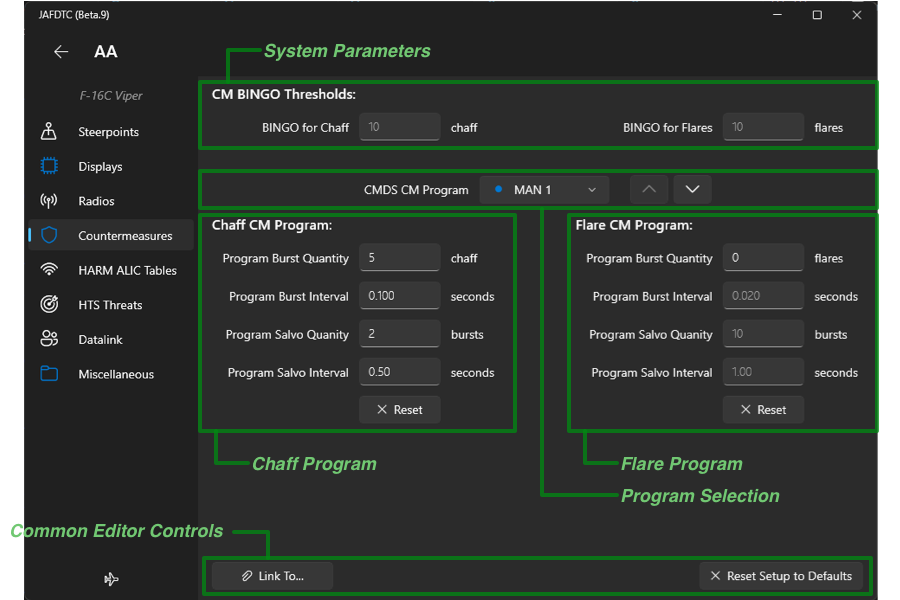
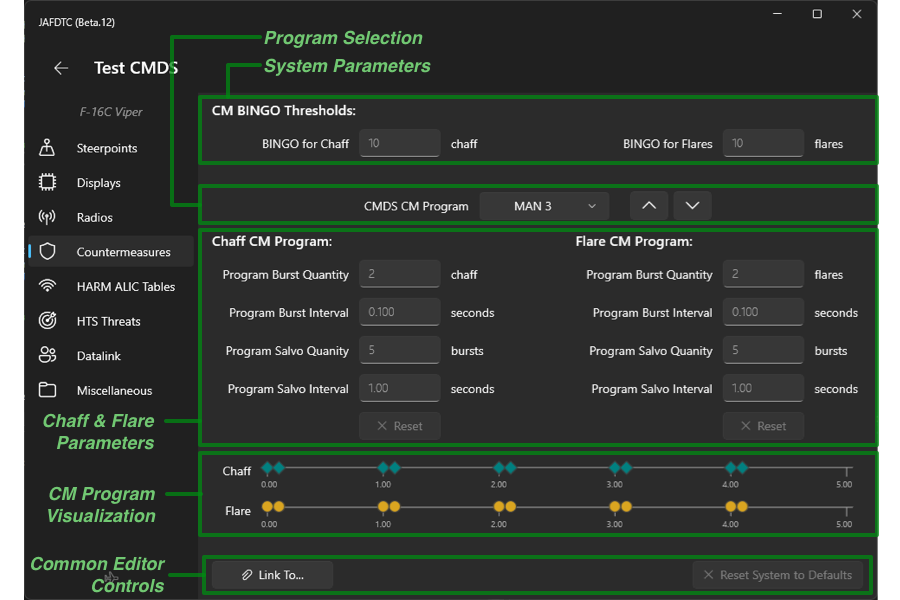
Documentation Updates
Added documentation for new Viper CMDS visualizer. Other cleanups.

Changed region(s): [[0.0, 0.0, 0.9956, 1.0], [0.0311, 0.15, 0.1867, 0.66]]

diff --git a/doc/Airframe_F16C.md b/doc/Airframe_F16C.md
@@ -56,6 +56,12 @@ program menu. The background of the field will turn red if you enter a value tha
 of the allowable range. Clicking the reset button at the bottom of the column will reset all
 four of the parameters (BQ, BI, SQ, and SI) in the column to their default values.
 
+### Countermeasure Program Visualizer
+
+Below the programming table is a graphical representation of the countermeasure programs. This
+shows the timing of the flare and chaff releases on a common timeline. Gold circles represent
+flares while teal diamonds represent chaff.
+
 ## DLNK: Datalink
 
 The datalink system manages parameters set through the DED DLNK page. These parameters control
@@ -102,6 +108,10 @@ the pilot database will cause JAFDTC to track the corresponding entry as your ow
 pilot entry in the database is indicated by a bullet (see entry 5 above) and is determined by
 looking for a callsign in the pilot database that matches the callsign set through the
 [JAFDTC settings](https://github.com/51st-Vfw/JAFDTC/tree/master/doc/README.md#settings).
+
+> You should make sure to set up your callsign through the
+> [JAFDTC settings](https://github.com/51st-Vfw/JAFDTC/tree/master/doc/README.md#settings)
+> to get the most out of the datalink support in JAFDTC.
 
 ### Setting Up Multiple Pilots
 

diff --git a/README.md b/README.md
@@ -1,6 +1,6 @@
 # JAFDTC: Just Another #%*@^!& DTC
 
-*Just Another #%*@^!% DTC* (JAFDTC) is a native C# WinUI Windows application that allows you to
+Just Another #%*@^!% DTC (JAFDTC) is a native C# WinUI Windows application that allows you to
 upload data typically saved on a data cartridge, such as steerpoints/waypoints and other
 avionics setup, into a DCS model at the start of a flight. The application supports the
 following DCS airframes.
